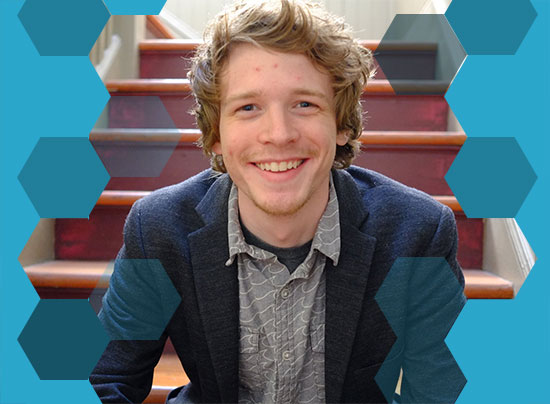
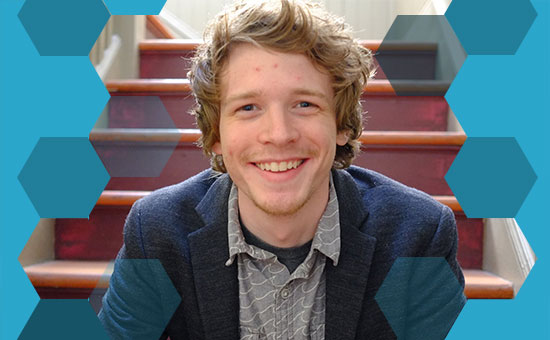
Clean up a few details.

diff --git a/css/main.css b/css/main.css
@@ -79,7 +79,8 @@ h1 {
   font-size: 1.3rem;
 }
 h2 {
-  font-size: 1.1rem;
+  color: rgb(204, 204, 204);
+  font-size: 1rem;
 }
 a {
 	color: #7E7E7E;
@@ -188,12 +189,16 @@ hr {
 .top-panel a {
   color: #FFF;
 }
-.top-panel img {
-  width: auto;
+/*
+.top-panel .profile {
+  background-image: url(/img/foster-color.jpg);
+  background-size: 100% auto;
+  background-repeat: no-repeat;
   border-radius: 0px;
-  max-height: 323px;
+  width: 100%;
+  height: 100%;
   max-width: 100%;
-}
+} */
 
 /*
  * Social
@@ -305,7 +310,7 @@ hr {
 }
 .post-meta {
   font-size: .85rem;
-  color: #E7E7E7;
+  color: rgb(204, 204, 204);
 }
 
 /*

diff --git a/_includes/header.html b/_includes/header.html
@@ -1,10 +1,10 @@
 <header>
   <div class="top-panel">
     <div class="container">
-      <div class="col-md-6">
-        <img src="/img/foster-bw.jpg">
+      <div class="col-md-6 col-sm-4">
+        <img src="/img/foster-color.jpg">
       </div>
-      <div class="col-md-6">
+      <div class="col-md-6 col-sm-8">
         <h2>Hay, I'm Foster.</h2>
         <p>I'm a digital creative, game designer, entrepreneur, and artist. I believe in diversity, collaboration, and creativity. I live in San Francisco, where the weather is consistently confusing.</p>
         <p class="social">

diff --git a/games/_posts/2015-01-03-save-the-bet.md b/games/_posts/2015-01-03-save-the-bet.md
@@ -7,16 +7,16 @@ tags: card-game, cards, gambling
 Standard 52-card deck (51 cards used)  
 15-20 minutes  
 
-#####Game Setup:
+## Game Setup:
 Remove the Ace of Spades from the deck. Both players are dealt 6 cards from the shuffled deck. The remaining cards are placed in a stack between the players.
 
-#####Main Objective:
+## Main Objective:
 The first player to collect 26 cards wins.
 
-#####Rules and Details:
+## Rules and Details:
 Each player is to bet on the exact value or suit of the next card that's flipped over. The wager is placed using the cards in hand. Multiple cards of the same suit can be used to bet against the larger numbered cards, by adding their values together. Jack, Queen, King, and Ace cards are all worth a value of 1.  Cards won are collected into the hand, and can be used again for betting.
 
-#####Game Flow:
+## Game Flow:
 Set up the game and deal cards.
 Each player places their bet, face down, on the value of the next flipped card from the stack. 
 The Gamble card is revealed.
@@ -25,7 +25,7 @@ Both players reveal their bets.
 All cards in play are given to the bet winner, if applicable. In the event of a draw or a blank turn, the Gamble is shuffled back into the stack, and each player collects the cards bet by the opposite player.
 Repeat numbers 2-6, until one player reaches 26 cards.
 
-#####Definitions:
+## Definitions:
 **Stack** - The cards that are being bet against.  These remain face down in a centralized stack between the players.  
 **Gamble card** - The next card to bet against, or the top card of the stack.  
 **Saving the bet** - When one or both players decide to augment their bet with an additional card after the Gamble card has been revealed. The additional card must be the same suit as the Gamble, but needn’t be the same suit as the original bet.  
